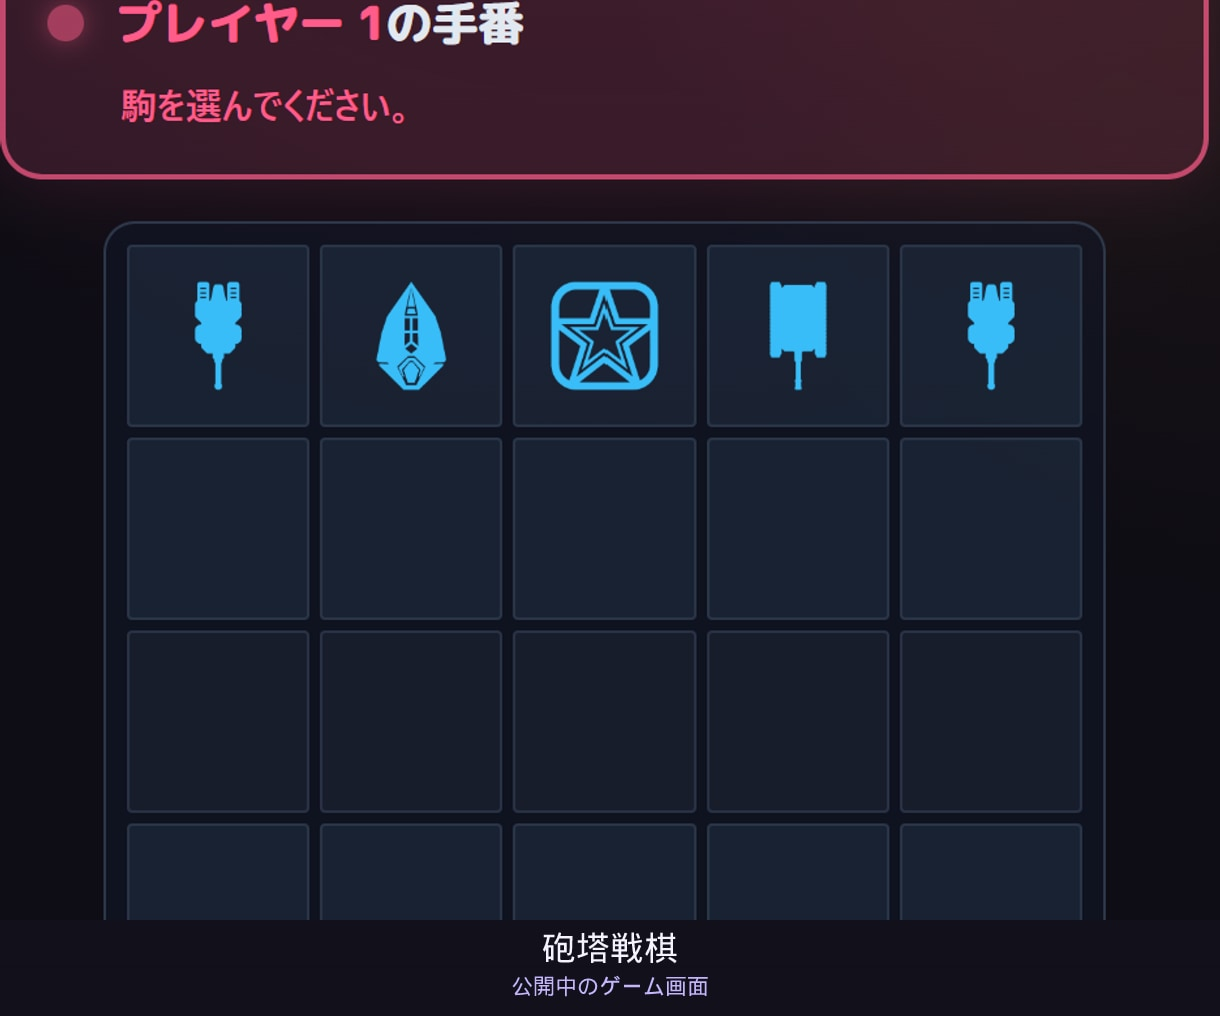
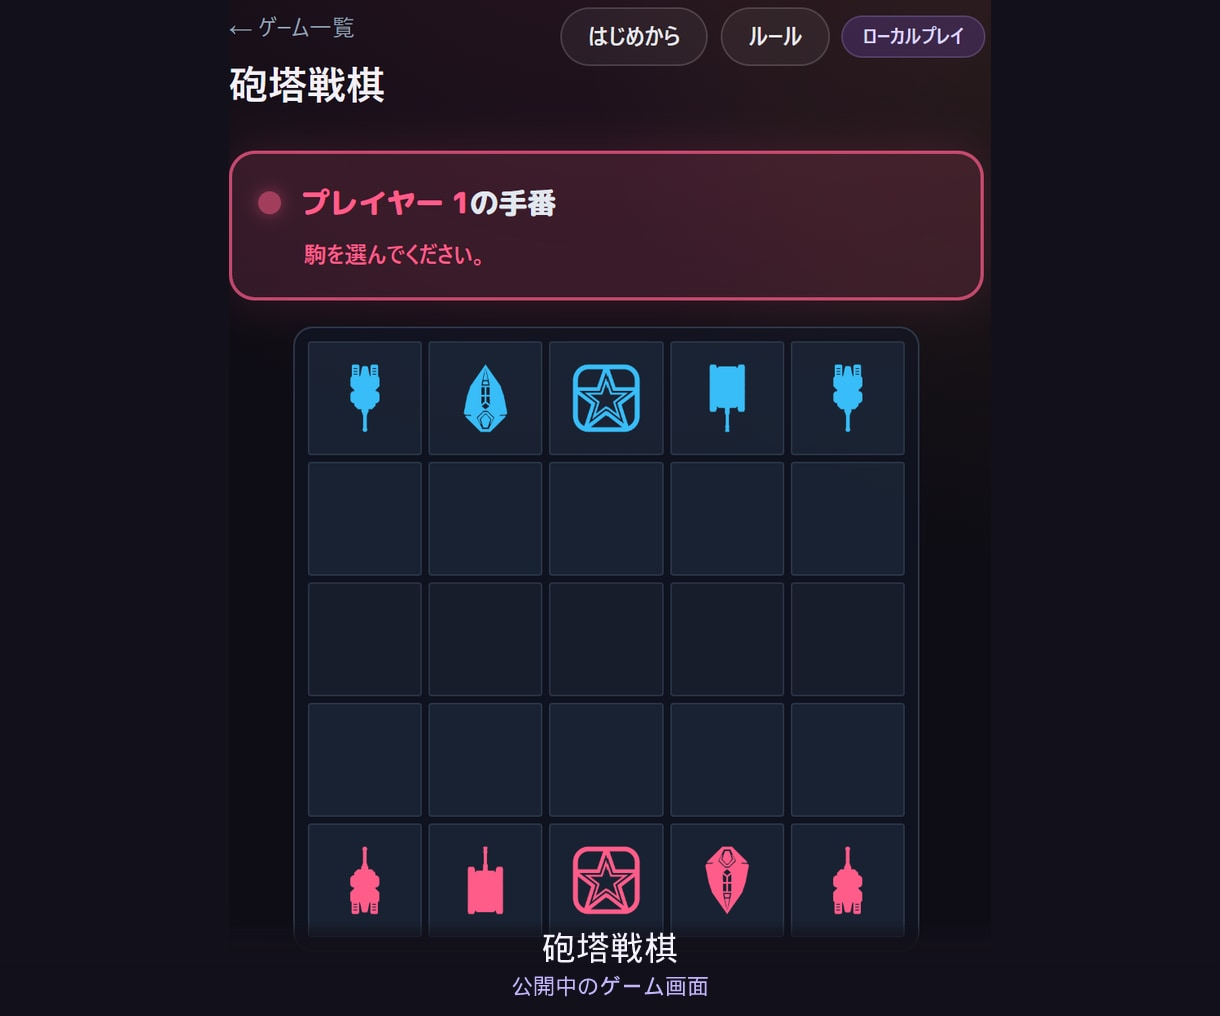
fix(coconala): サムネはスクショ全体表示・cover拡大を廃止

diff --git a/docs/coconala/listing.md b/docs/coconala/listing.md
@@ -47,7 +47,7 @@
 | 3 | [thumbnail-03.jpg](./thumbnail-03.jpg) | マンカラ・カラハ（手動スクショ → [sources/thumbnail-03-source.png](./sources/thumbnail-03-source.png)） |
 | 4 | [thumbnail-04.jpg](./thumbnail-04.jpg) | ルドー（手動スクショ → [sources/thumbnail-04-source.png](./sources/thumbnail-04-source.png)） |
 
-※キャプチャ時はサイト共通ヘッダーを除く。下帯は「公開中のゲーム画面」。
+※下帯は「公開中のゲーム画面」。合成はスクショ**全体を切り抜かず**幅1220に収め、下帯は下端密着（文言下の余白なし）。高さは内容に応じ最大約1016px。
 
 再生成: `node scripts/compose-coconala-screenshot.mjs <sources/*.png> <ゲーム名> docs/coconala/thumbnail-0N.jpg`（要 `sharp` `@resvg/resvg-js`）。自動キャプチャ用は `capture-coconala-play-shots.mjs`（現状未使用）
 
